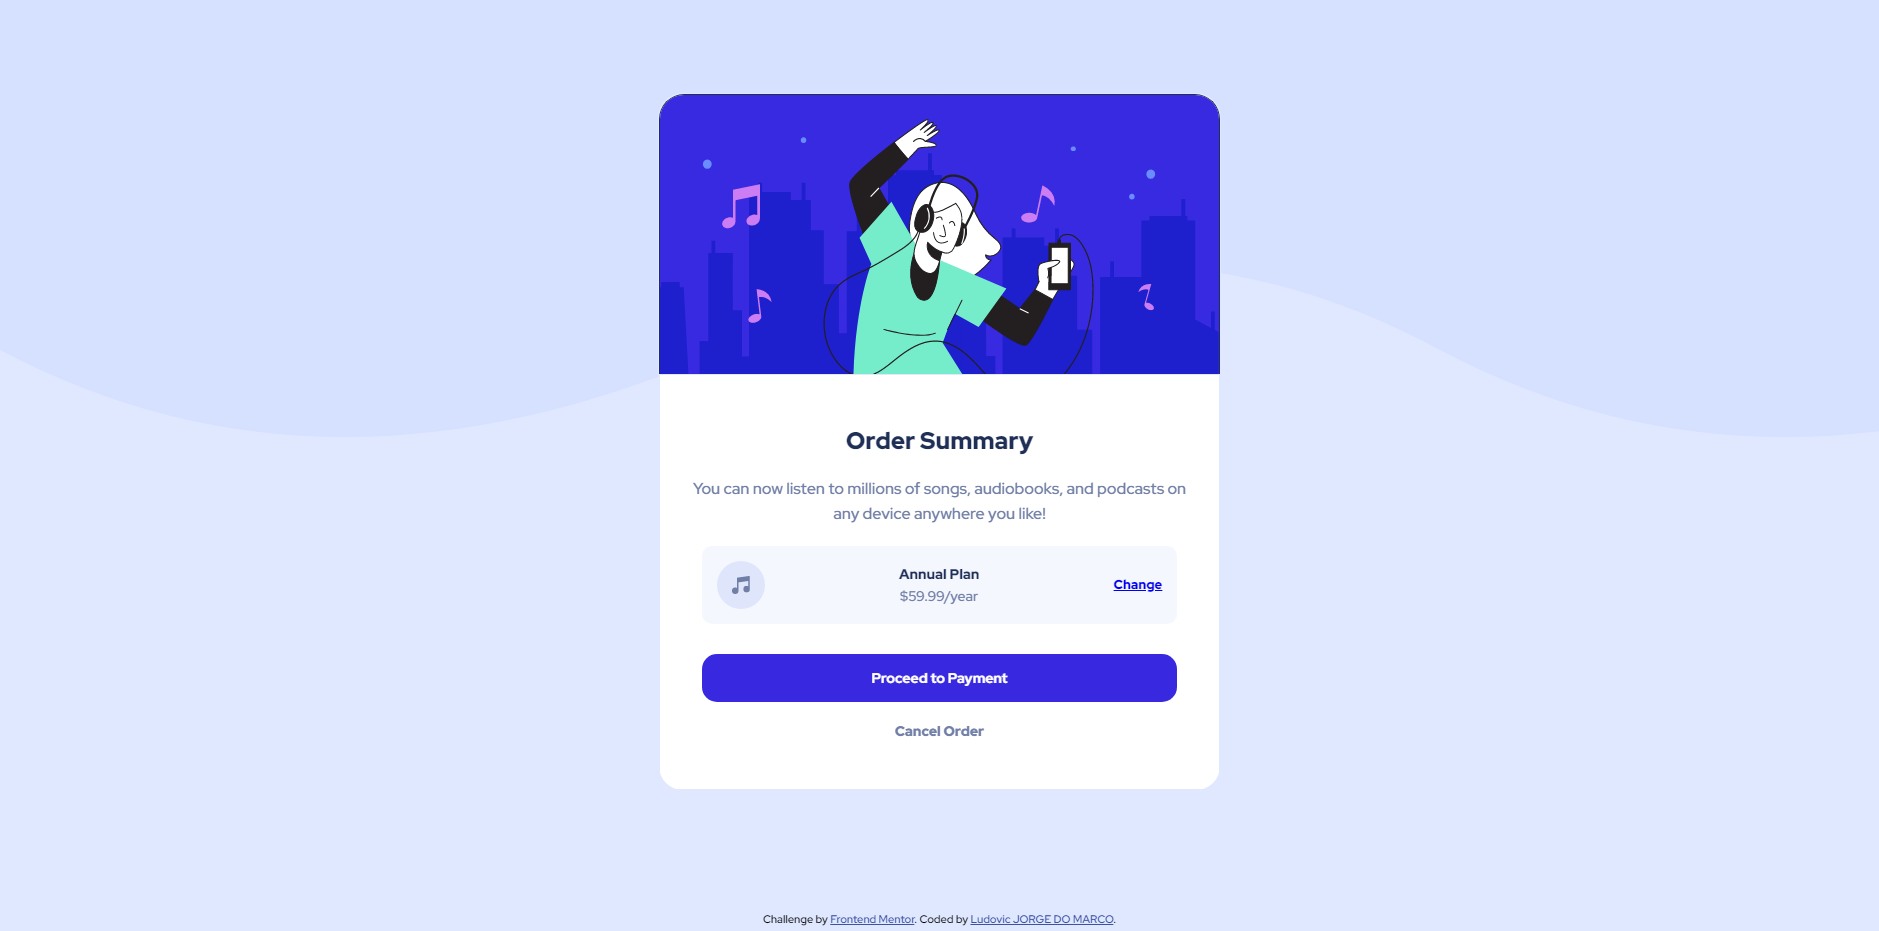
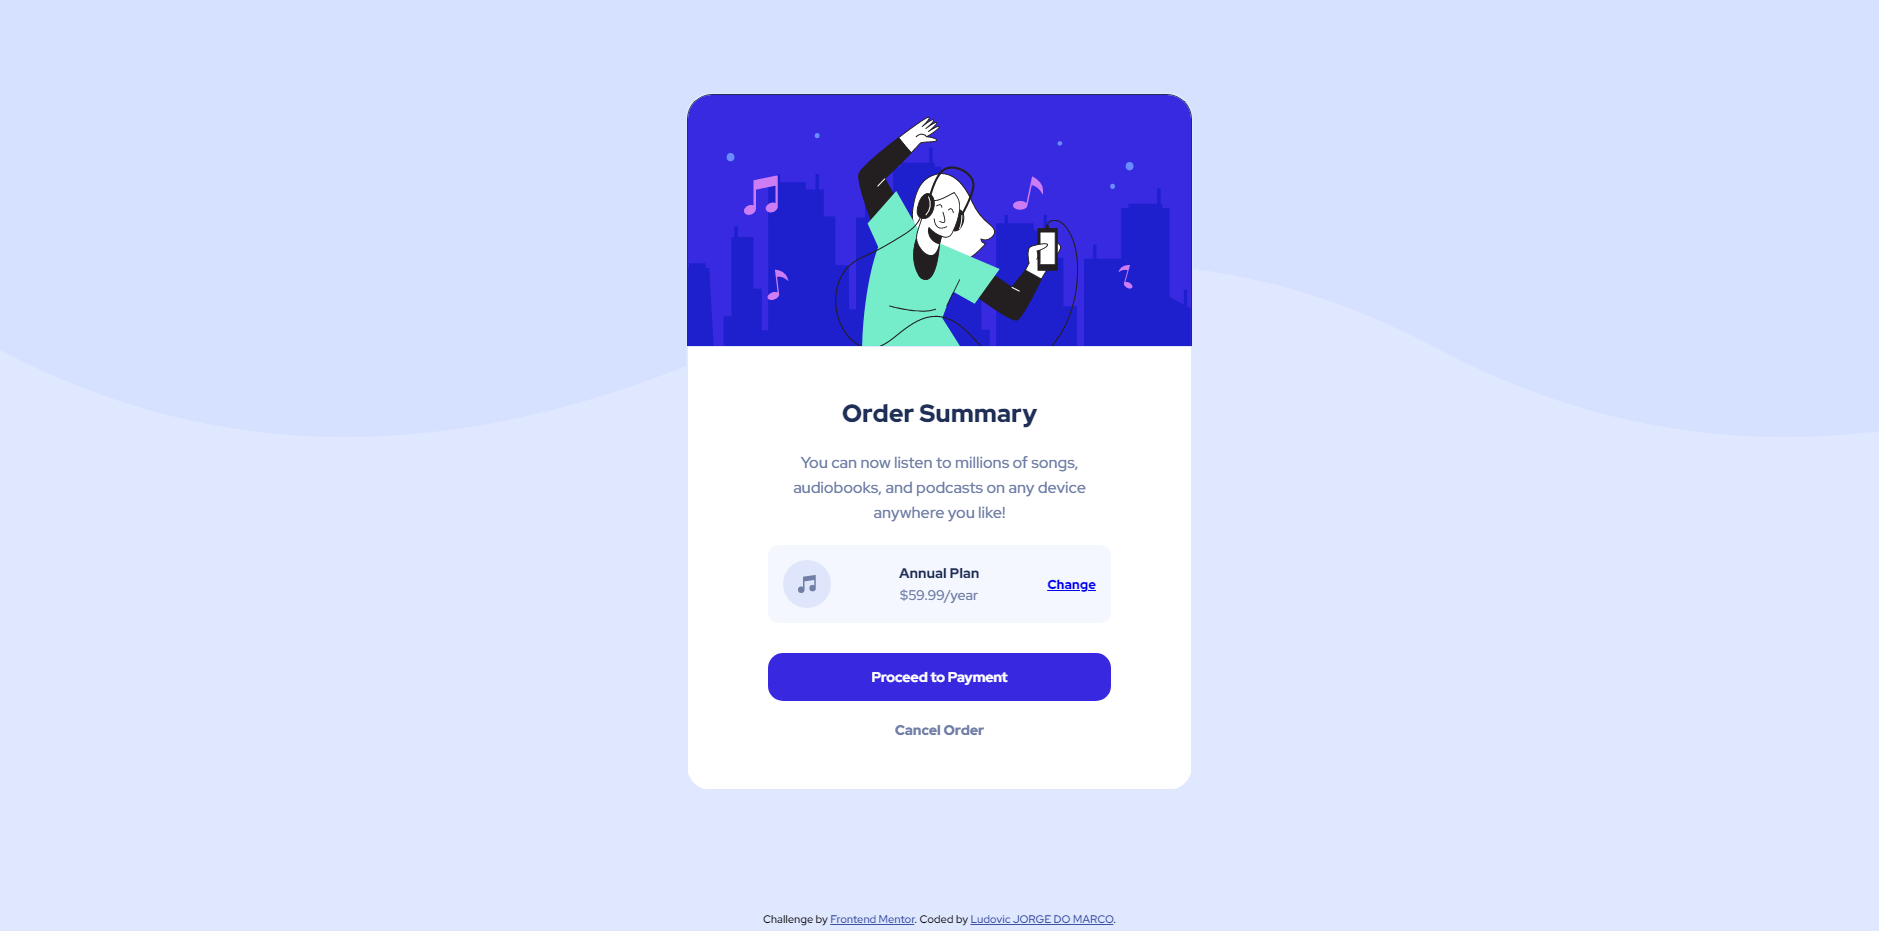
correction of padding and font size

diff --git a/assets/css/app.css b/assets/css/app.css
@@ -70,7 +70,7 @@ body {
 
 .card-body H3 {
   font-weight: 900;
-  font-size: 1.5em;
+  font-size: 25px;
   color: var(--darkBlue);
 }
 
@@ -158,14 +158,17 @@ button:hover {
     height: 160px;
   }
 }
-
 @media screen and (min-width: 380px) {
   body {
     background-image: url('/assets/images/pattern-background-desktop.svg');
     background-repeat: repeat-x;
   }
   .card {
-    width: 30vw;
+    width: 27vw;
     height: 75vh;
+  }
+  .card-body {
+    padding-left: 50px;
+    padding-right: 50px;
   }
 }
